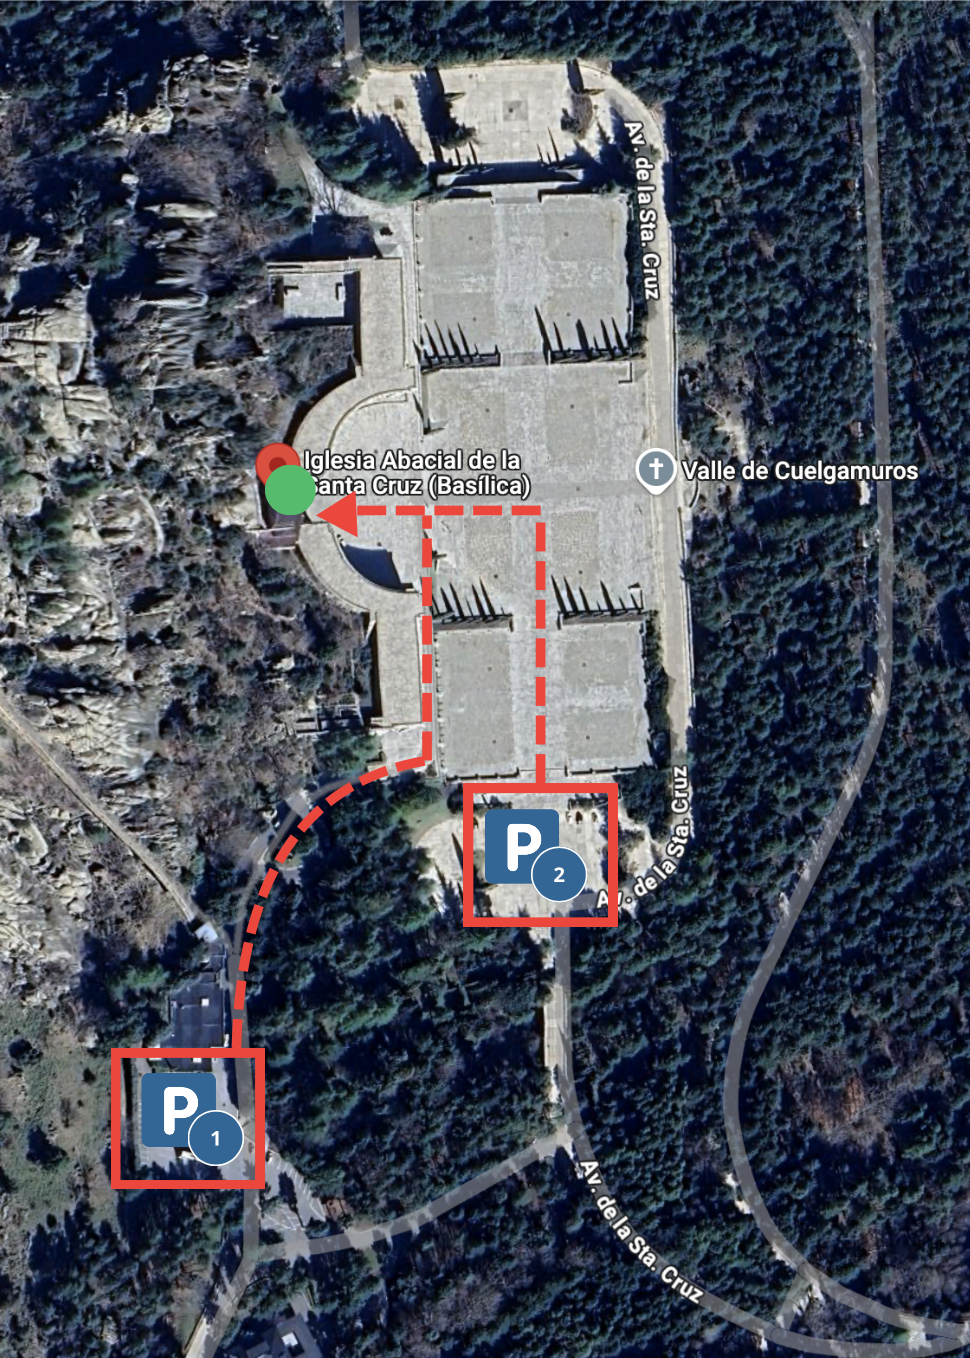
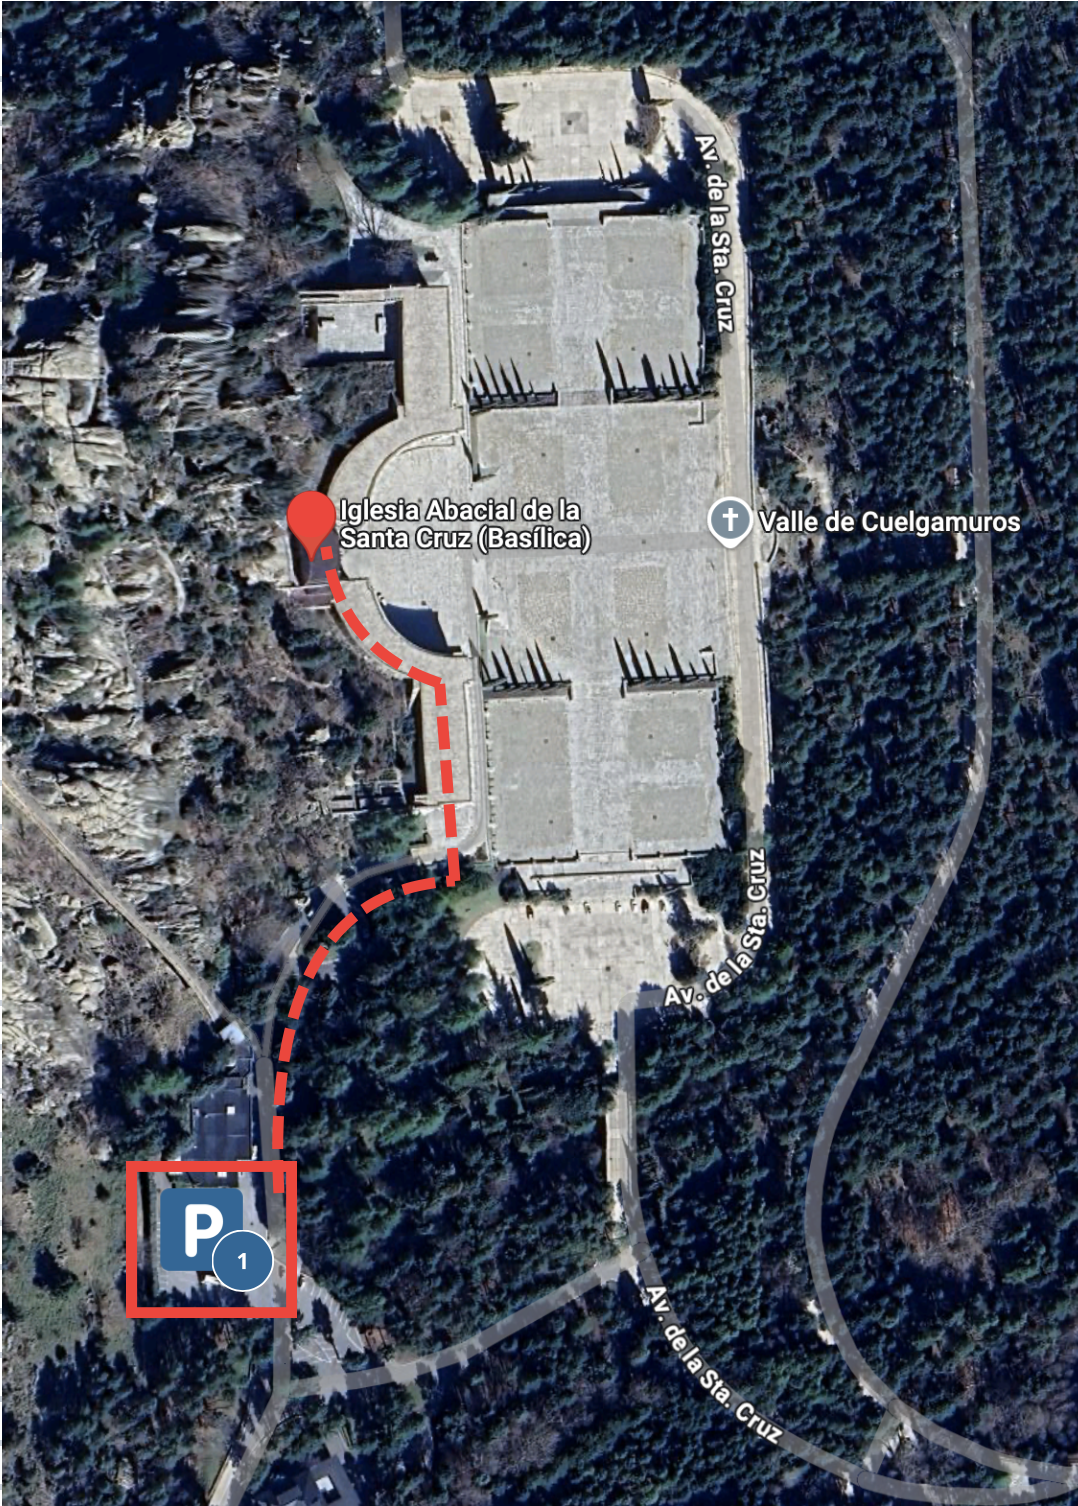
updating image

Changed region(s): [[0.0, 0.0, 1.0, 1.0], [0.8969, 0.866, 0.9588, 0.8969], [0.9897, 0.8351, 1.0, 0.866]]

diff --git a/index-en.html b/index-en.html
@@ -393,7 +393,7 @@
                     <img src="src/img/valleparking.png" class="couple-image"
                         alt="Araceli and Lúí">
                 </div>
-                <a href="https://maps.app.goo.gl/1w4MNJcdo6Rm1KLbA"
+                <a href="https://maps.app.goo.gl/A7iNct9PLr2f7ttr5"
                     class="btn btn-map">
                     <i class="bi bi-geo-alt"></i> How to get there
                 </a>

diff --git a/index.html b/index.html
@@ -383,7 +383,7 @@
                     <img src="src/img/valleparking.png" class="couple-image"
                         alt="Araceli and Lúí">
                 </div>
-                <a href="https://maps.app.goo.gl/1w4MNJcdo6Rm1KLbA"
+                <a href="https://maps.app.goo.gl/A7iNct9PLr2f7ttr5"
                     class="btn btn-map">
                     <i class="bi bi-geo-alt"></i> Cómo llegar
                 </a>
